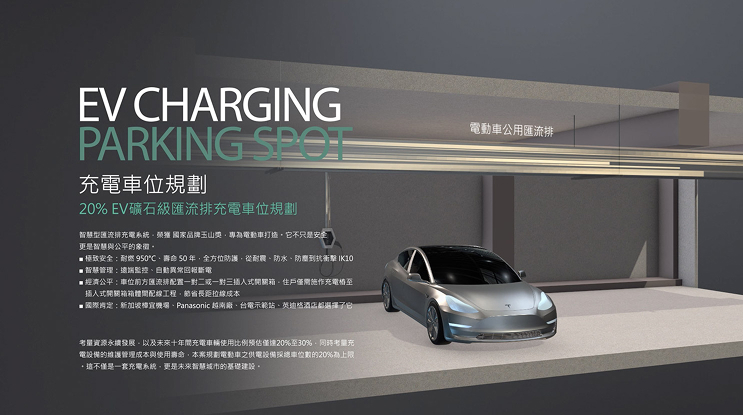
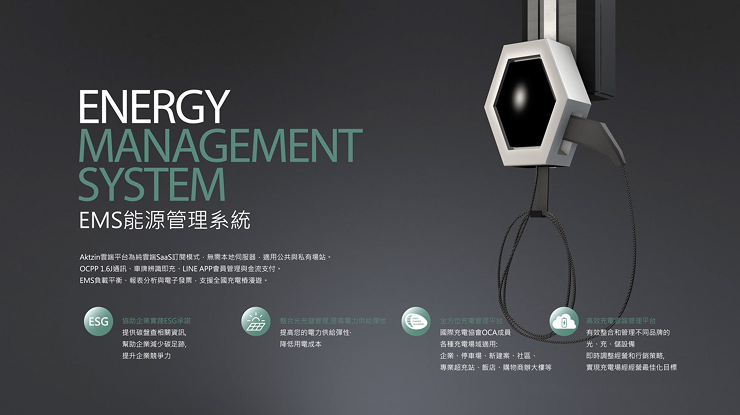
修理跑馬燈

diff --git a/src/section/s7.vue b/src/section/s7.vue
@@ -121,18 +121,15 @@ const loop = () => {
     offset.value -= speed
   }
 
-  if (Math.abs(offset.value) >= contentWidth / 2) {
+  const halfWidth = contentWidth / 2
+  // 使用取餘數概念或簡單判斷
+  if (offset.value <= -halfWidth) {
     offset.value = 0
+  } else if (offset.value > 0) {
+    offset.value = -halfWidth
   }
 
   rafId = requestAnimationFrame(loop)
-}
-
-// ===== 滑鼠 =====
-const onMouseDown = (e) => {
-  isDragging = true
-  startX = e.clientX
-  startOffset = offset.value
 }
 
 const onMouseMove = (e) => {
@@ -169,8 +166,20 @@ const onMouseLeave = () => {
 
 // ===== lifecycle =====
 onMounted(() => {
-  contentWidth = contentRef.value.scrollWidth
-  loop()
+  // 使用 nextTick 並配合小延遲，確保 iOS 已完成佈局渲染
+  setTimeout(() => {
+    if (contentRef.value) {
+      // 獲取內容寬度
+      contentWidth = contentRef.value.scrollWidth;
+      
+      // 針對 iOS 容錯：如果抓不到寬度，則手動計算 (項目數量 * 寬度)
+      if (contentWidth === 0) {
+        const items = contentRef.value.querySelectorAll('.marquee-item');
+        contentWidth = items.length * window.innerWidth; 
+      }
+    }
+    loop();
+  }, 300); // 稍微加長延遲確保穩定
 })
 
 onBeforeUnmount(() => {
@@ -345,11 +354,16 @@ onBeforeUnmount(() => {
 
     .marquee-content {
       display: flex;
-      /*  animation: run 50s linear infinite;
-     &:hover {
-        animation-play-state: paused;
-      }
-      */
+  will-change: transform;
+  transform: translateZ(0);
+  backface-visibility: hidden;
+  
+  /* 強制讓 iOS 保持在同一渲染層級，避免重疊 */
+  transform-style: preserve-3d;
+  -webkit-transform-style: preserve-3d;
+  
+  /* 確保寬度是內容量的總和，而非被容器限制 */
+  width: max-content;
     }
 
     .marquee-group {
@@ -359,14 +373,19 @@ onBeforeUnmount(() => {
     .marquee-item {
       cursor: pointer;
       user-select: none;
-      margin-right: sizem(5);
-      position: relative;
-      flex: 0 0 100vw; // 手機版強制為 100% 視窗寬度
+      margin-right: sizem(5);position: relative;
+  
+  // 優化：明確指定寬度，防止 iOS 下 flex 壓縮導致重疊
+  flex: 0 0 100vw; 
+  width: 100vw;      
+  max-width: 100vw;
 
-      @media screen and (min-width: 768px) {
-        flex: 0 0 auto; // 電腦版恢復以內容寬度為主
-        margin-right: size(10);
-      }
+  @media screen and (min-width: 768px) {
+    flex: 0 0 auto;
+    width: auto;
+    max-width: none;
+    margin-right: size(10);
+  }
 
       .img-box {
         position: relative;
